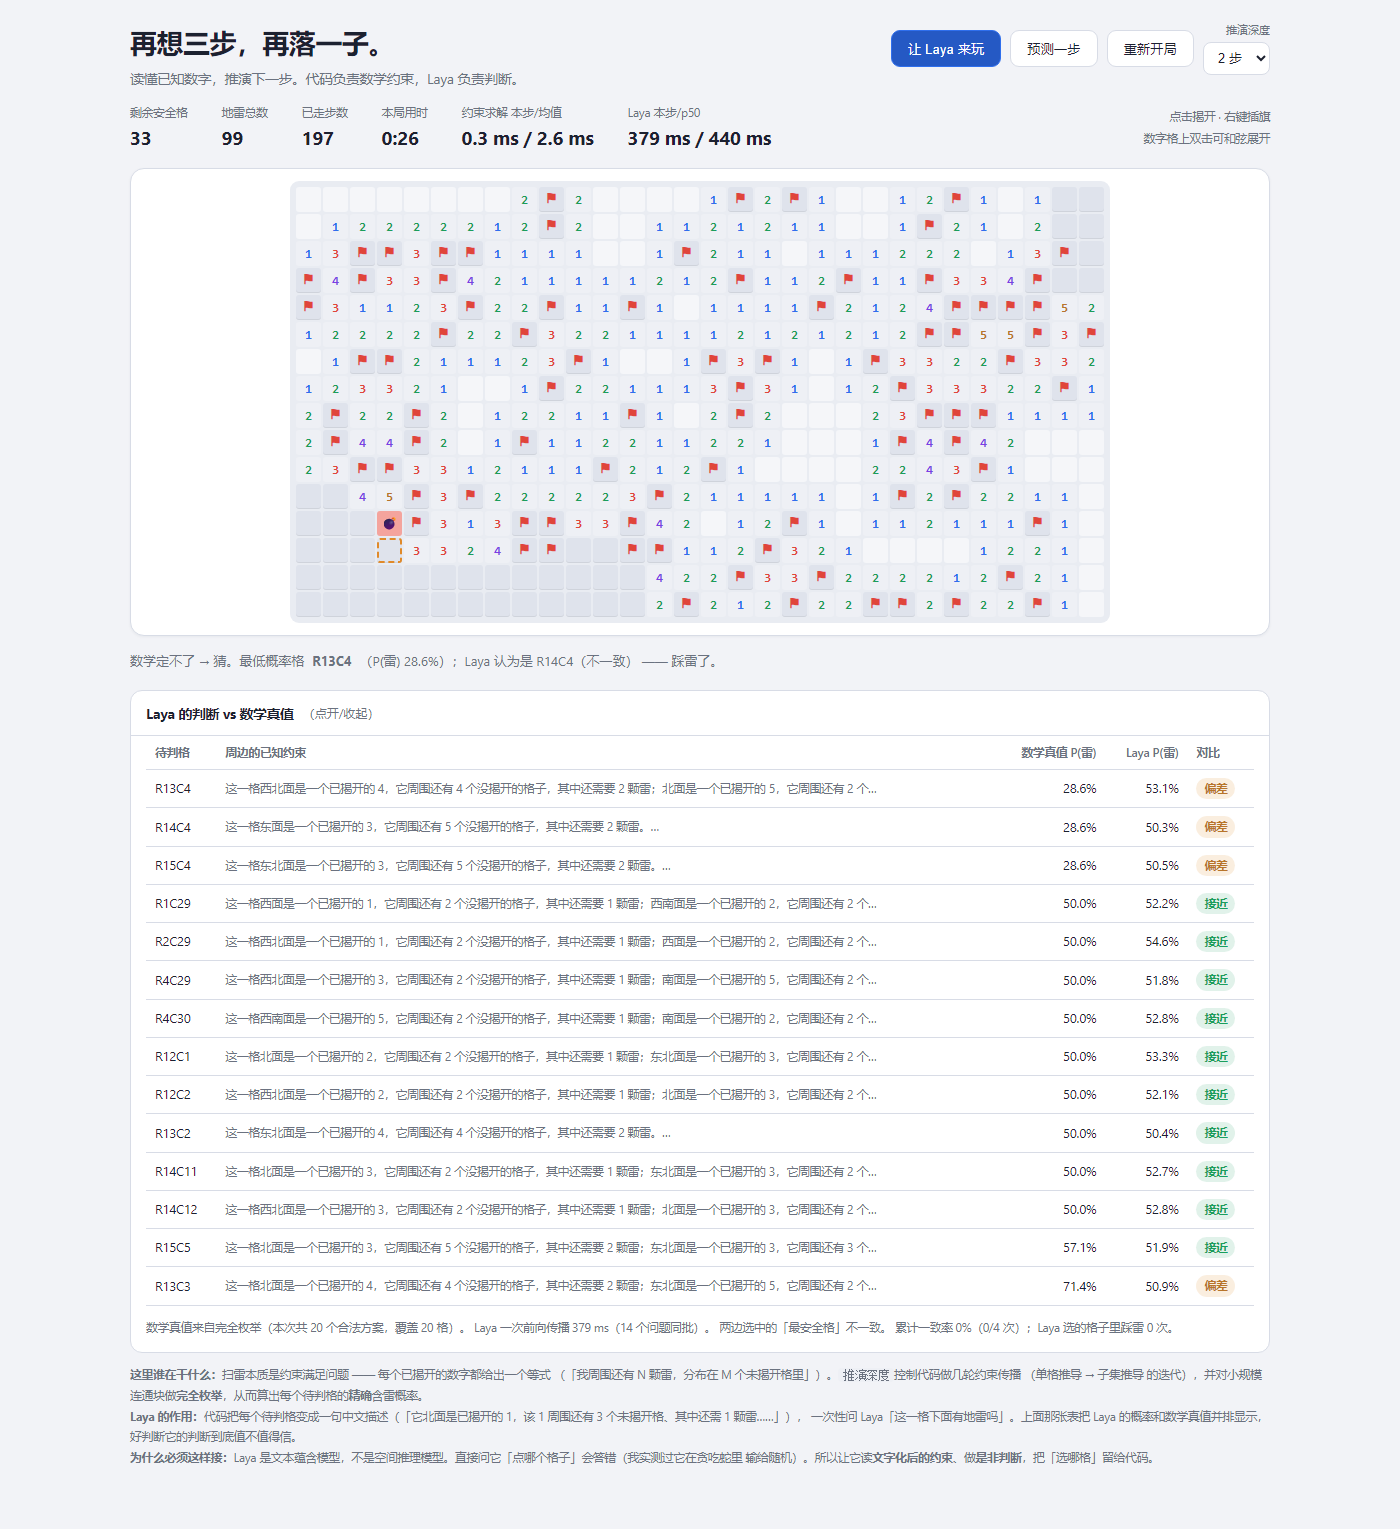
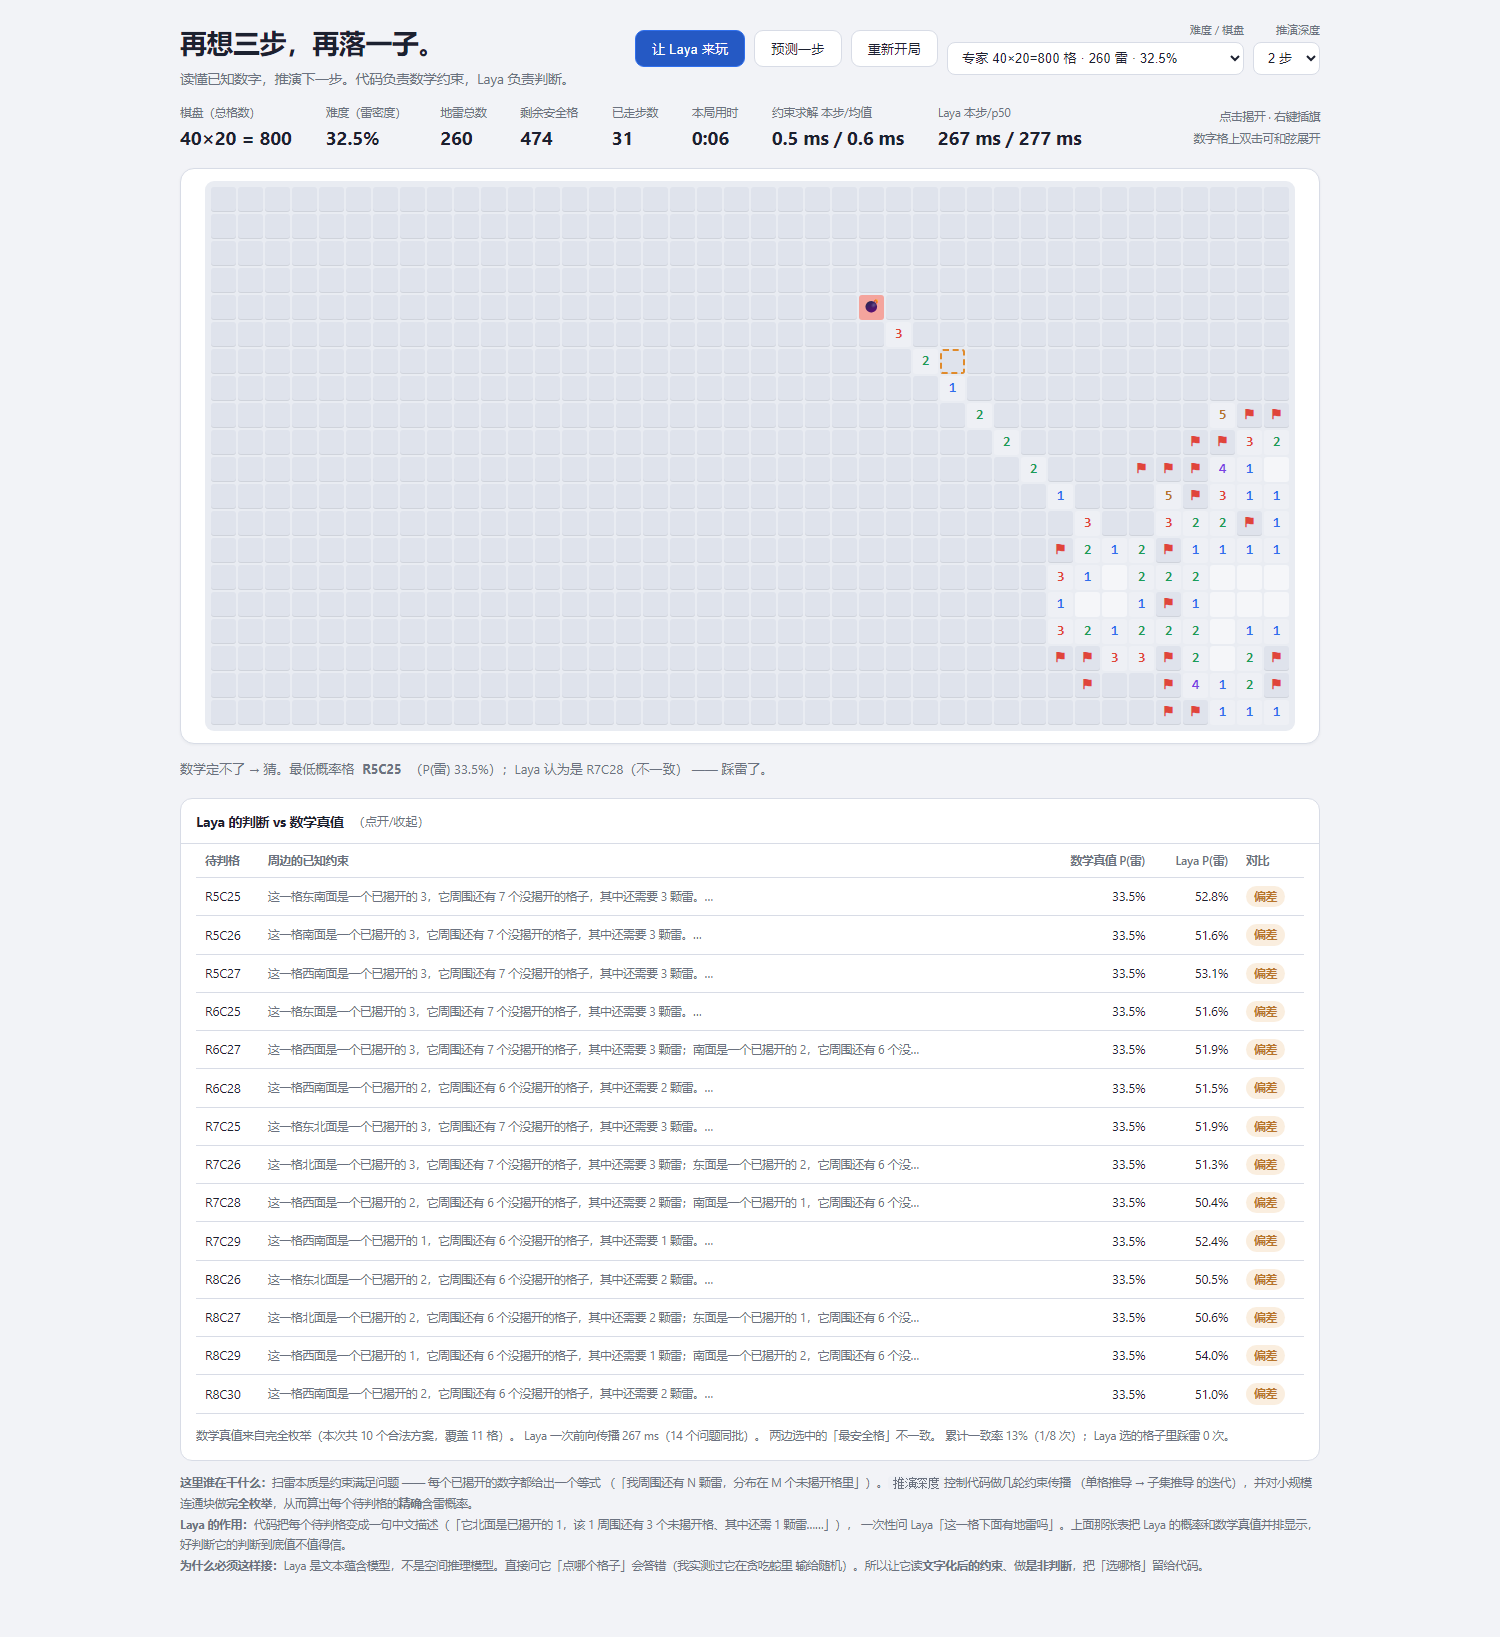
难度与棋盘尺寸可自定义，各处显示总格数
- 新增 7 档难度预设（初级 81 格 → 地狱 1200 格），每档标出总格数与雷密度
- 新增自定义面板：任意填列/行/雷数，实时校验并显示总格数
- 状态栏新增「棋盘（总格数）」与「难度（雷密度）」两项
- 格子边长按容器实际宽度缩放（10~26px），大棋盘不再横向溢出；窗口缩放自动重算
- 推演深度默认改为 2（实测 3/4 与 2 数字完全相同）
- README 补充难度对照表与密度说明

diff --git a/static/index.html b/static/index.html
@@ -41,12 +41,20 @@
   .legend{margin-left:auto;text-align:right;font-size:11.5px;color:var(--dim);line-height:1.85}
 
   /* ---------- 棋盘 ---------- */
+  .custombar{display:none;align-items:center;gap:14px;flex-wrap:wrap;margin:0 0 14px;
+    background:var(--card);border:1px solid var(--line);border-radius:11px;padding:12px 15px;font-size:13px}
+  .custombar.on{display:flex}
+  .custombar label{display:flex;align-items:center;gap:6px;color:var(--dim)}
+  .custombar input{width:76px;font:13px inherit;padding:6px 9px;border-radius:7px;
+    border:1px solid var(--line);background:#fff;color:var(--fg)}
+  .custombar .hint{color:var(--dim);font-size:12px;flex:1;min-width:180px}
+  .custombar .hint.bad{color:var(--bad)}
   .boardwrap{background:var(--card);border:1px solid var(--line);border-radius:14px;
     padding:12px;overflow:auto;box-shadow:0 1px 3px rgba(20,30,60,.05)}
   .board{display:grid;gap:2px;margin:0 auto;width:max-content;
     background:var(--board);padding:6px;border-radius:9px;user-select:none}
-  .cell{width:25px;height:25px;border-radius:3px;display:flex;align-items:center;justify-content:center;
-    font:700 13px/1 ui-monospace,Consolas,monospace;cursor:pointer;transition:background .08s}
+  .cell{width:var(--cw,25px);height:var(--cw,25px);border-radius:3px;display:flex;align-items:center;justify-content:center;
+    font:700 var(--cf,13px)/1 ui-monospace,Consolas,monospace;cursor:pointer;transition:background .08s}
   .cell.hid{background:var(--raised);box-shadow:inset 0 -1px 0 rgba(0,0,0,.07)}
   .cell.hid:hover{background:#d3d9e6}
   .cell.op{background:var(--open);cursor:default}
@@ -102,11 +110,15 @@
       <button id="btnStep">预测一步</button>
       <button id="btnReset">重新开局</button>
       <div class="selwrap">
+        <label for="level">难度 / 棋盘</label>
+        <select id="level"></select>
+      </div>
+      <div class="selwrap">
         <label for="depth">推演深度</label>
         <select id="depth">
           <option value="1">1 步</option>
-          <option value="2">2 步</option>
-          <option value="3" selected>3 步</option>
+          <option value="2" selected>2 步</option>
+          <option value="3">3 步</option>
           <option value="4">4 步</option>
         </select>
       </div>
@@ -114,13 +126,24 @@
   </div>
 
   <div class="stats">
-    <div class="st"><span class="k">剩余安全格</span><span class="v" id="sSafe">—</span></div>
+    <div class="st"><span class="k">棋盘（总格数）</span><span class="v" id="sSize">—</span></div>
+    <div class="st"><span class="k">难度（雷密度）</span><span class="v" id="sLevel">—</span></div>
     <div class="st"><span class="k">地雷总数</span><span class="v" id="sMines">99</span></div>
+    <div class="st"><span class="k">剩余安全格</span><span class="v" id="sSafe">—</span></div>
     <div class="st"><span class="k">已走步数</span><span class="v" id="sSteps">0</span></div>
     <div class="st"><span class="k">本局用时</span><span class="v" id="sTime">0:00</span></div>
     <div class="st"><span class="k">约束求解 本步/均值</span><span class="v" id="sSolve">— / —</span></div>
     <div class="st"><span class="k">Laya 本步/p50</span><span class="v" id="sInfer">— / —</span></div>
     <div class="legend">点击揭开 · 右键插旗<br>数字格上双击可和弦展开</div>
+  </div>
+
+  <div class="custombar" id="custombar">
+    <span>自定义棋盘：</span>
+    <label>列 <input type="number" id="cCols" min="5" max="80" value="30"></label>
+    <label>行 <input type="number" id="cRows" min="5" max="60" value="16"></label>
+    <label>雷 <input type="number" id="cMines" min="1" value="99"></label>
+    <span class="hint" id="cHint"></span>
+    <button id="cApply" class="primary">应用</button>
   </div>
 
   <div class="boardwrap"><div class="board" id="board"></div></div>
@@ -159,7 +182,44 @@
 /* ==========================================================================
  * 配置
  * ======================================================================== */
-const COLS = 30, ROWS = 16, MINES = 99;
+/* 棋盘尺寸与雷数改为可变 —— 支持自定义与难度预设。
+ * 用 let 而非 const：所有既有引用点无需改动，改棋盘只需重新赋值。 */
+let COLS = 30, ROWS = 16, MINES = 99;
+
+/* 难度预设。密度 = 雷数 / 总格数，是决定"难不难"的核心指标。
+ *   经典 Windows 扫雷：初级 10/81=12.3%，中级 16/256=15.6%，高级 99/480=20.6%
+ *   本项目默认 99/480 = 20.6%（等同经典高级）
+ * 越往上密度越高，需要猜的次数越多 —— 因为逻辑可解的格子会变少。 */
+const LEVELS = [
+  {id:'beginner', name:'初级',     cols:9,  rows:9,  mines:10},
+  {id:'easy',     name:'简单',     cols:16, rows:12, mines:26},
+  {id:'medium',   name:'中级',     cols:20, rows:14, mines:50},
+  {id:'default',  name:'经典·默认', cols:30, rows:16, mines:99},
+  {id:'hard',     name:'困难',     cols:30, rows:16, mines:140},
+  {id:'expert',   name:'专家',     cols:40, rows:20, mines:260},
+  {id:'insane',   name:'地狱',     cols:50, rows:24, mines:520},
+  {id:'custom',   name:'自定义 …',  cols:30, rows:16, mines:99},
+];
+const LEVEL_BY_ID = Object.fromEntries(LEVELS.map(l => [l.id, l]));
+
+/* 显示格子的总数量 —— 需求要求"每个都要显示格子总数"，故三处都显示：
+ * 状态栏、难度下拉、自定义面板。 */
+function density() { return MINES / (COLS * ROWS); }
+function levelLabel() {
+  const lv = LEVELS.find(l => l.cols === COLS && l.rows === ROWS && l.mines === MINES);
+  const pct = (density() * 100).toFixed(1);
+  return (lv && lv.id !== 'custom' ? lv.name : '自定义') + ` · ${COLS}×${ROWS}=${COLS*ROWS} 格 · ${MINES} 雷 · ${pct}%`;
+}
+/* 每格边长随棋盘缩放。
+ * 不用固定宽度猜，而是取容器**实际**可用宽度 —— 否则 50 列以上必然横向溢出。
+ * 减去 2px 间隙/格与容器内边距，再夹在可读范围内。 */
+function cellSize() {
+  const wrap = el('board') && el('board').closest('.boardwrap');
+  const avail = (wrap ? wrap.clientWidth : 1138) - 34;   // 34 ≈ padding + 间隙总和
+  const gap = 2;
+  let cs = Math.floor((avail - (COLS - 1) * gap) / COLS);
+  return Math.max(10, Math.min(26, cs));
+}
 const API = '/api/predict';
 /* 必须显式指定模型，不能交给 Router 自动路由：
  * boards 的 state 是中文，Router 会判定「非拉丁文字 → multilingual」，
@@ -541,7 +601,11 @@ let lastSolveMs = null, lastInferMs = null;
 
 function buildGrid() {
   const g = el('board');
-  g.style.gridTemplateColumns = `repeat(${COLS}, 25px)`;
+  const cs = cellSize();
+  // 每格尺寸与字号用 CSS 变量下发，大棋盘自动缩小以免溢出
+  g.style.setProperty('--cw', cs + 'px');
+  g.style.setProperty('--cf', Math.max(9, Math.round(cs * 0.55)) + 'px');
+  g.style.gridTemplateColumns = `repeat(${COLS}, ${cs}px)`;
   g.innerHTML = '';
   for (let r = 0; r < ROWS; r++) for (let c = 0; c < COLS; c++) {
     const d = document.createElement('div');
@@ -549,6 +613,55 @@ function buildGrid() {
     d.style.gridRow = r + 1; d.style.gridColumn = c + 1;
     g.appendChild(d);
   }
+  // 每次改棋盘都同步自定义输入框
+  if (el('cCols'))  el('cCols').value  = COLS;
+  if (el('cRows'))  el('cRows').value  = ROWS;
+  if (el('cMines')) el('cMines').value = MINES;
+  syncLevelSelect();
+  updateCustomHint();
+}
+
+/* 把当前棋盘回写到难度下拉；若不是预设则选「自定义」 */
+function syncLevelSelect() {
+  const sel = el('level');
+  if (!sel) return;
+  const match = LEVELS.find(l => l.id !== 'custom' && l.cols === COLS && l.rows === ROWS && l.mines === MINES);
+  sel.value = match ? match.id : 'custom';
+  // 自定义项的文案带上当前实际尺寸，方便一眼看到总格数
+  const c = sel.querySelector('option[value="custom"]');
+  if (c) c.textContent = `自定义 … （当前 ${COLS}×${ROWS}=${COLS*ROWS} 格，${MINES} 雷）`;
+}
+
+/* 自定义面板的实时校验：雷数不能 >= 总格数，否则无解 */
+function updateCustomHint() {
+  const hint = el('cHint');
+  if (!hint || !el('cCols')) return;
+  const c = +el('cCols').value, r = +el('cRows').value, m = +el('cMines').value;
+  const total = c * r;
+  if (!(c >= 5 && r >= 5)) { hint.textContent = '⚠ 列与行至少 5'; hint.className = 'hint bad'; return false; }
+  if (c > 80 || r > 60)    { hint.textContent = '⚠ 列 ≤ 80，行 ≤ 60'; hint.className = 'hint bad'; return false; }
+  if (!(m >= 1) || m >= total) {
+    hint.textContent = `⚠ 雷数需在 1 ~ ${Math.max(1, total - 1)} 之间（总格数 ${total}）`;
+    hint.className = 'hint bad'; return false;
+  }
+  const pct = (100 * m / total);
+  const tag = pct < 12 ? '偏易' : pct < 18 ? '适中' : pct < 23 ? '偏难' : '极难，需大量猜测';
+  hint.textContent = `总格数 ${total}（${c}×${r}）· 雷密度 ${pct.toFixed(1)}% · ${tag}`;
+  hint.className = 'hint';
+  return true;
+}
+
+/* 应用一套棋盘参数并重开 */
+function applyBoard(cols, rows, mines) {
+  COLS = cols; ROWS = rows; MINES = mines;
+  stopAuto();
+  board.reset(); lastCmp = null;
+  stats = {agree: 0, total: 0, layaTop: 0, layaTopOK: 0};
+  perf.solve.length = 0; perf.infer.length = 0;
+  lastSolveMs = lastInferMs = null;
+  buildGrid(); renderCmp(null); paint();
+  setStatus(`新棋盘：${COLS}×${ROWS} = <b>${COLS*ROWS}</b> 格，${MINES} 颗雷（密度 ${(density()*100).toFixed(1)}%）。点「让 Laya 来玩」或自己点格子。`);
+  syncLevelSelect();
 }
 
 function paint() {
@@ -574,6 +687,8 @@ function paint() {
     if (!x.op && layaCells.has(k)) cls += ' laya';
     d.className = cls;
   }
+  el('sSize').textContent = COLS + '×' + ROWS + ' = ' + (COLS*ROWS);
+  el('sLevel').textContent = (density()*100).toFixed(1) + '%';
   el('sSafe').textContent = Math.max(0, b.safeLeft());
   el('sMines').textContent = MINES;
   el('sSteps').textContent = b.steps;
@@ -853,19 +968,57 @@ el('board').addEventListener('dblclick', e => {
 });
 el('btnAuto').onclick = () => { if (auto) stopAuto(); else startAuto(); };
 el('btnStep').onclick = () => doStep(true);
-el('btnReset').onclick = () => {
-  stopAuto();
-  board.reset(); lastCmp = null;
-  stats = {agree: 0, total: 0, layaTop: 0, layaTopOK: 0};
-  perf.solve.length = 0; perf.infer.length = 0;
-  lastSolveMs = lastInferMs = null;
-  buildGrid(); renderCmp(null); paint();
-  setStatus('重新开局。点「让 Laya 来玩」或自己点格子。');
-};
+// 重新开局：保持当前棋盘尺寸与难度
+el('btnReset').onclick = () => applyBoard(COLS, ROWS, MINES);
 el('panelHd').onclick = () => el('panel').classList.toggle('open');
+
+/* ---- 难度下拉 ---- */
+(function initLevels() {
+  const sel = el('level');
+  sel.innerHTML = '';
+  for (const l of LEVELS) {
+    const o = document.createElement('option');
+    o.value = l.id;
+    // 每一项都标出总格数（需求：每个都要显示格子总数量）
+    o.textContent = l.id === 'custom'
+      ? '自定义 …'
+      : `${l.name}  ${l.cols}×${l.rows}=${l.cols*l.rows} 格 · ${l.mines} 雷 · ${(100*l.mines/(l.cols*l.rows)).toFixed(1)}%`;
+    sel.appendChild(o);
+  }
+  sel.value = 'default';
+  sel.onchange = () => {
+    const l = LEVEL_BY_ID[sel.value];
+    if (!l) return;
+    if (l.id === 'custom') {
+      el('custombar').classList.add('on');
+      updateCustomHint();
+      return;                        // 只展开面板，不改棋盘
+    }
+    el('custombar').classList.remove('on');
+    applyBoard(l.cols, l.rows, l.mines);
+  };
+})();
+
+/* ---- 自定义面板 ---- */
+['cCols','cRows','cMines'].forEach(id => {
+  const n = el(id);
+  if (n) n.oninput = updateCustomHint;
+});
+el('cApply').onclick = () => {
+  if (!updateCustomHint()) return;
+  applyBoard(+el('cCols').value, +el('cRows').value, +el('cMines').value);
+  el('custombar').classList.remove('on');
+};
 
 /* 计时器 */
 setInterval(() => { if (board.started && !board.over) el('sTime').textContent = fmt(board.elapsedMs()); }, 500);
+
+/* 窗口尺寸变化时重算格子大小（否则大棋盘在窄窗口里会溢出） */
+let _rsz = null;
+window.addEventListener('resize', () => {
+  clearTimeout(_rsz);
+  _rsz = setTimeout(() => { buildGrid(); paint(); }, 150);
+});
 
 /* 启动 */
 buildGrid(); paint();
